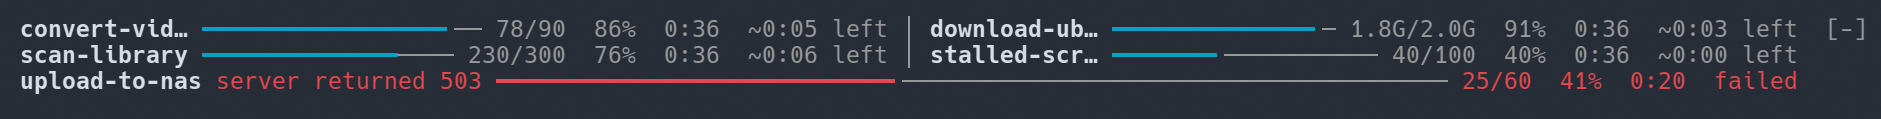
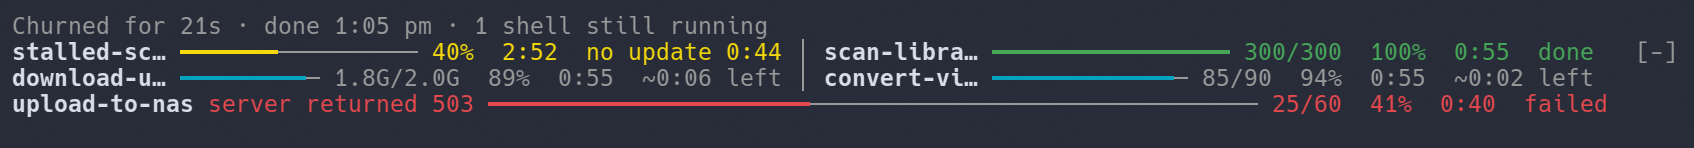
Use a screenshot that shows a stalled and a finished task

Changed region(s): [[0.0, 0.1008, 1.0, 0.7815]]

diff --git a/plugins/simple-progress-bars/README.md b/plugins/simple-progress-bars/README.md
@@ -1,6 +1,6 @@
 # Simple Progress Bars
 
-![Progress bars above the Claude Code prompt: two running tasks with time estimates, one with a transfer size, a stalled task, and a failed upload in red](assets/screenshot.png)
+![Progress bars above the Claude Code prompt: two running tasks with time estimates, one with a transfer size, a stalled task, a finished task in green, and a failed upload in red](assets/screenshot.png)
 
 Progress bars with time estimates for the long scripts that Claude Code runs. A script reports its progress with one command, for example `claude-progress -n convert 17/240`, and a bar with the count, the percent, the elapsed time, and a time estimate shows in the band above the prompt of Claude Code. Each update costs zero tokens.
 

diff --git a/README.md b/README.md
@@ -1,6 +1,6 @@
 # Simple Progress Bars
 
-![Progress bars above the Claude Code prompt: two running tasks with time estimates, one with a transfer size, a stalled task, and a failed upload in red](plugins/simple-progress-bars/assets/screenshot.png)
+![Progress bars above the Claude Code prompt: two running tasks with time estimates, one with a transfer size, a stalled task, a finished task in green, and a failed upload in red](plugins/simple-progress-bars/assets/screenshot.png)
 
 Progress bars for the long scripts that Claude Code runs.
 
